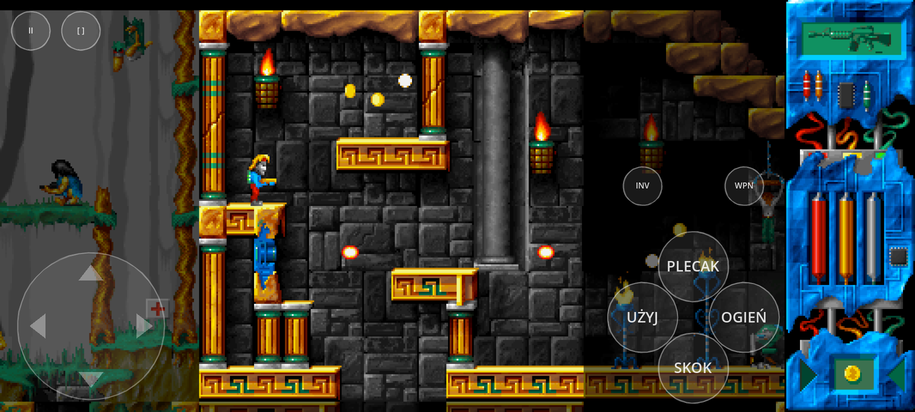
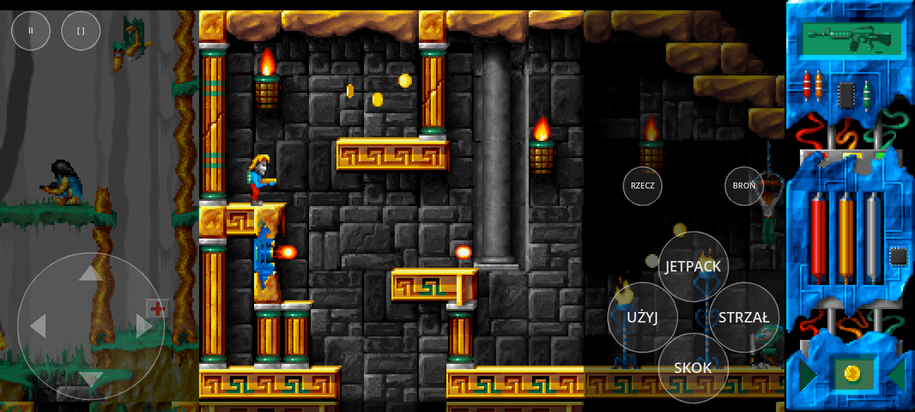
Label the jetpack button JETPACK in both languages
"PLECAK" (backpack) suggested an inventory. The touch button, the controls
screen and the README now say JETPACK; long touch labels shrink to fit their
circle. The phone screenshot in the docs is refreshed.

Claude-Session: https://claude.ai/code/session_015dk2ZHzaTQKvxtVUNE1tFV

diff --git a/remake/README.md b/remake/README.md
@@ -57,7 +57,7 @@ or the touch buttons when the touch controls are on.
 | crouch (pick up), menu down | ↓ (or S) | d-pad down | pad down |
 | fire | Ctrl (or J, X) | X, right trigger | STRZAŁ (FIRE) |
 | use / talk / confirm | Enter (or E, K) | B | UŻYJ (USE), tap |
-| jetpack on/off | Space (or L) | Y | PLECAK (JET) |
+| jetpack on/off | Space (or L) | Y | JETPACK |
 | previous / next item | , . (or Q, Tab) | LB / RB | RZECZ (ITEM), tap the HUD item |
 | weapon | 1–6, R = next | Back | BROŃ (GUN), tap the HUD weapon |
 | pause / options | Esc (or P) | Start | II |
